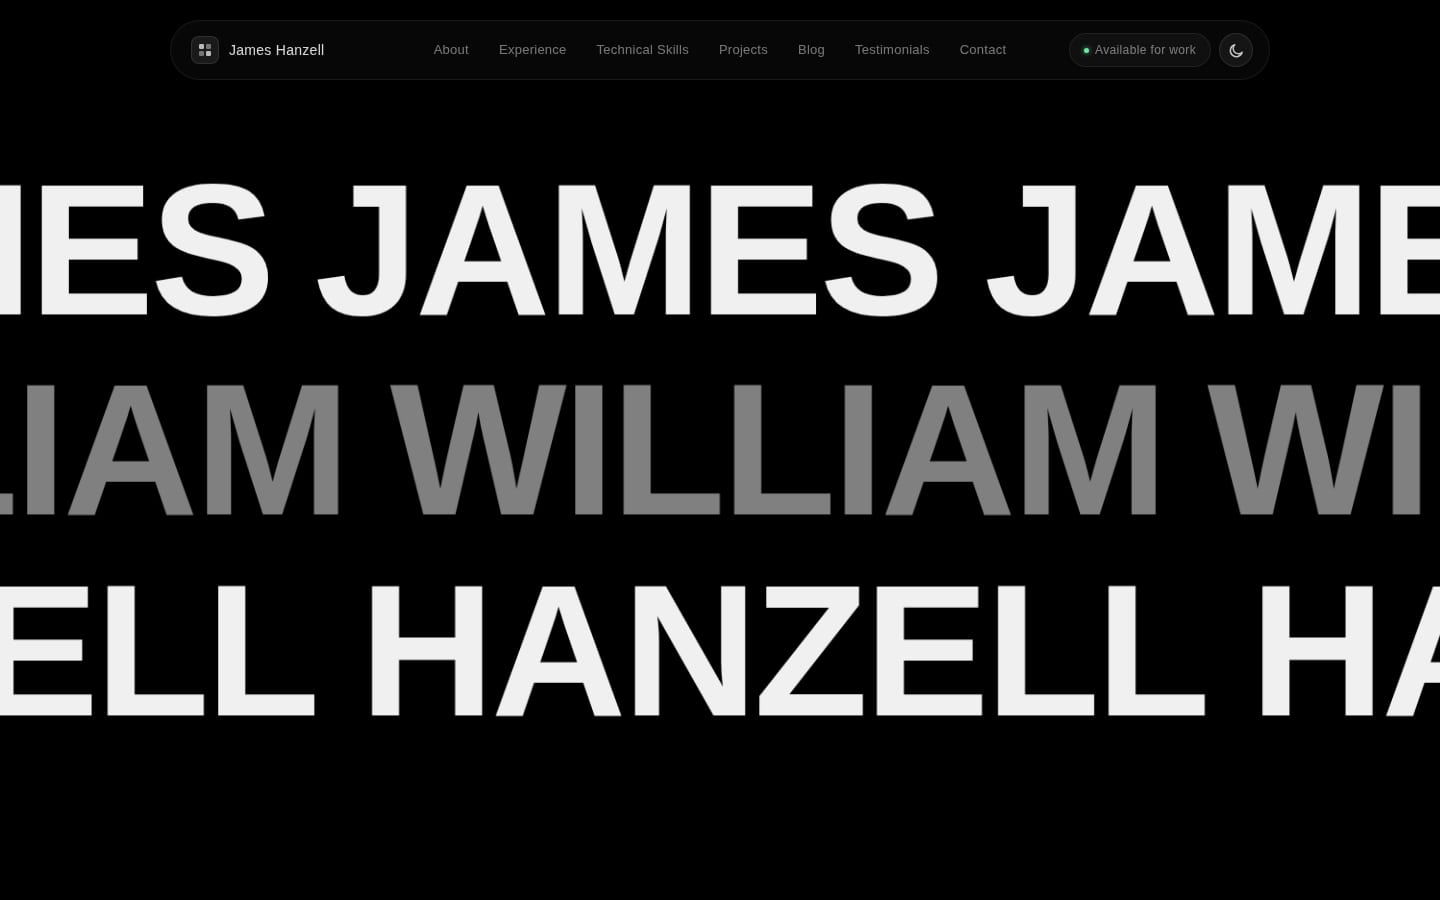
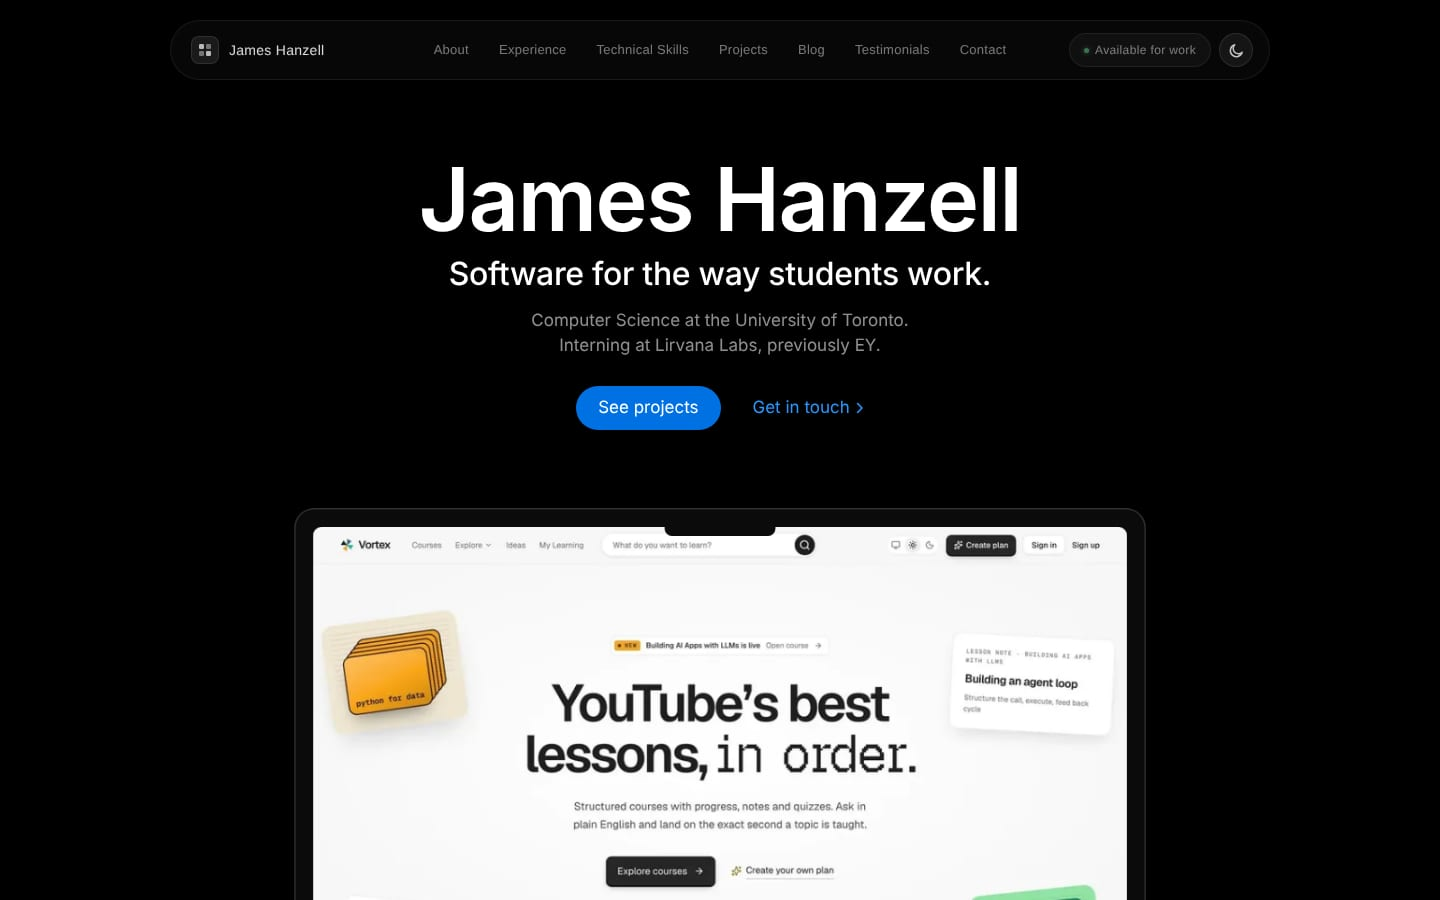
Update README for the new hero and projects
Retake the hero, light-mode and projects screenshots, describe the
Apple-style hero instead of the old name marquee, count 13 projects,
and list the hero image script in the project structure.

diff --git a/README.md b/README.md
@@ -1,11 +1,11 @@
 # James William Hanzell — Personal Portfolio
 
-A minimal, motion-driven portfolio and blog built with React. It opens on a drawn-box loader, then moves through a scrolling name marquee, a word-by-word intro, work experience, skills, a pinned project carousel, a blog with interactive posts, testimonials and a contact form. Everything is available in dark and light mode.
+A minimal, motion-driven portfolio and blog built with React. It opens on a drawn-box loader, then moves through an Apple-style hero showing recent projects on a laptop, a word-by-word intro, work experience, skills, a pinned project carousel, a blog with interactive posts, testimonials and a contact form. Everything is available in dark and light mode.
 
 **Live site:** https://jameswilliamhanzell.vercel.app/
 
 <p align="center">
-  <img src="docs/screenshots/hero-dark.jpg" alt="Hero: the name in three scrolling marquee rows (dark mode)" width="100%" />
+  <img src="docs/screenshots/hero-dark.jpg" alt="Hero: the name, tagline and a laptop showing Vortex (dark mode)" width="100%" />
 </p>
 
 ## 🖼 Tour
@@ -16,7 +16,7 @@ A square outline draws itself around the `JH` monogram while a counter runs from
 <img src="docs/screenshots/loader.jpg" alt="Loader: outline drawing around the JH monogram" width="100%" />
 
 ### Hero and About
-The hero spells out **JAMES / WILLIAM / HANZELL** in three oversized marquee rows that scroll in alternating directions. The About section is pinned while you scroll, and its intro lights up word by word.
+The hero is laid out like an Apple product page: the name, a one-line tagline, a **See projects** button and a **Get in touch** link, then a laptop drawn in CSS that grows as you scroll. A segmented control under it switches the laptop's screen between the three newest projects (Vortex, Carver and Coven). Its screenshots are small WebP copies made by `scripts/optimize-hero-images.mjs`. The About section below is pinned while you scroll, and its intro lights up word by word.
 
 <img src="docs/screenshots/about.jpg" alt="About: intro text revealing word by word on scroll" width="100%" />
 
@@ -36,7 +36,7 @@ A grid of skill cards, each with a proficiency level. Click a skill to see where
 <img src="docs/screenshots/skills-dark.jpg" alt="Technical Skills grid" width="100%" />
 
 ### Projects
-A pinned, horizontally scrolling carousel of 10 projects with a counter, arrow controls and a clickable project index. Cards link to the GitHub source and live demos. They open a detail view with a problem / approach / outcome case study where one exists.
+A pinned, horizontally scrolling carousel of 13 projects with a counter, arrow controls and a clickable project index. Cards link to the GitHub source and live demos. They open a detail view with a problem / approach / outcome case study where one exists.
 
 <img src="docs/screenshots/projects.jpg" alt="Projects: pinned horizontal carousel" width="100%" />
 
@@ -119,7 +119,7 @@ Then run:
 
 ```
 src/
-├── assets/              # Images, icons, loader and blog images
+├── assets/              # Images, icons, hero, loader and blog images
 ├── components/
 │   ├── blog/            # Interactive blog widgets
 │   ├── canvas/          # Three.js starfield
@@ -144,6 +144,7 @@ src/
 └── main.jsx
 docs/screenshots/        # Images used in this README
 scripts/
+├── optimize-hero-images.mjs     # Small WebP screenshots for the hero
 └── optimize-loader-images.mjs
 ```
 
